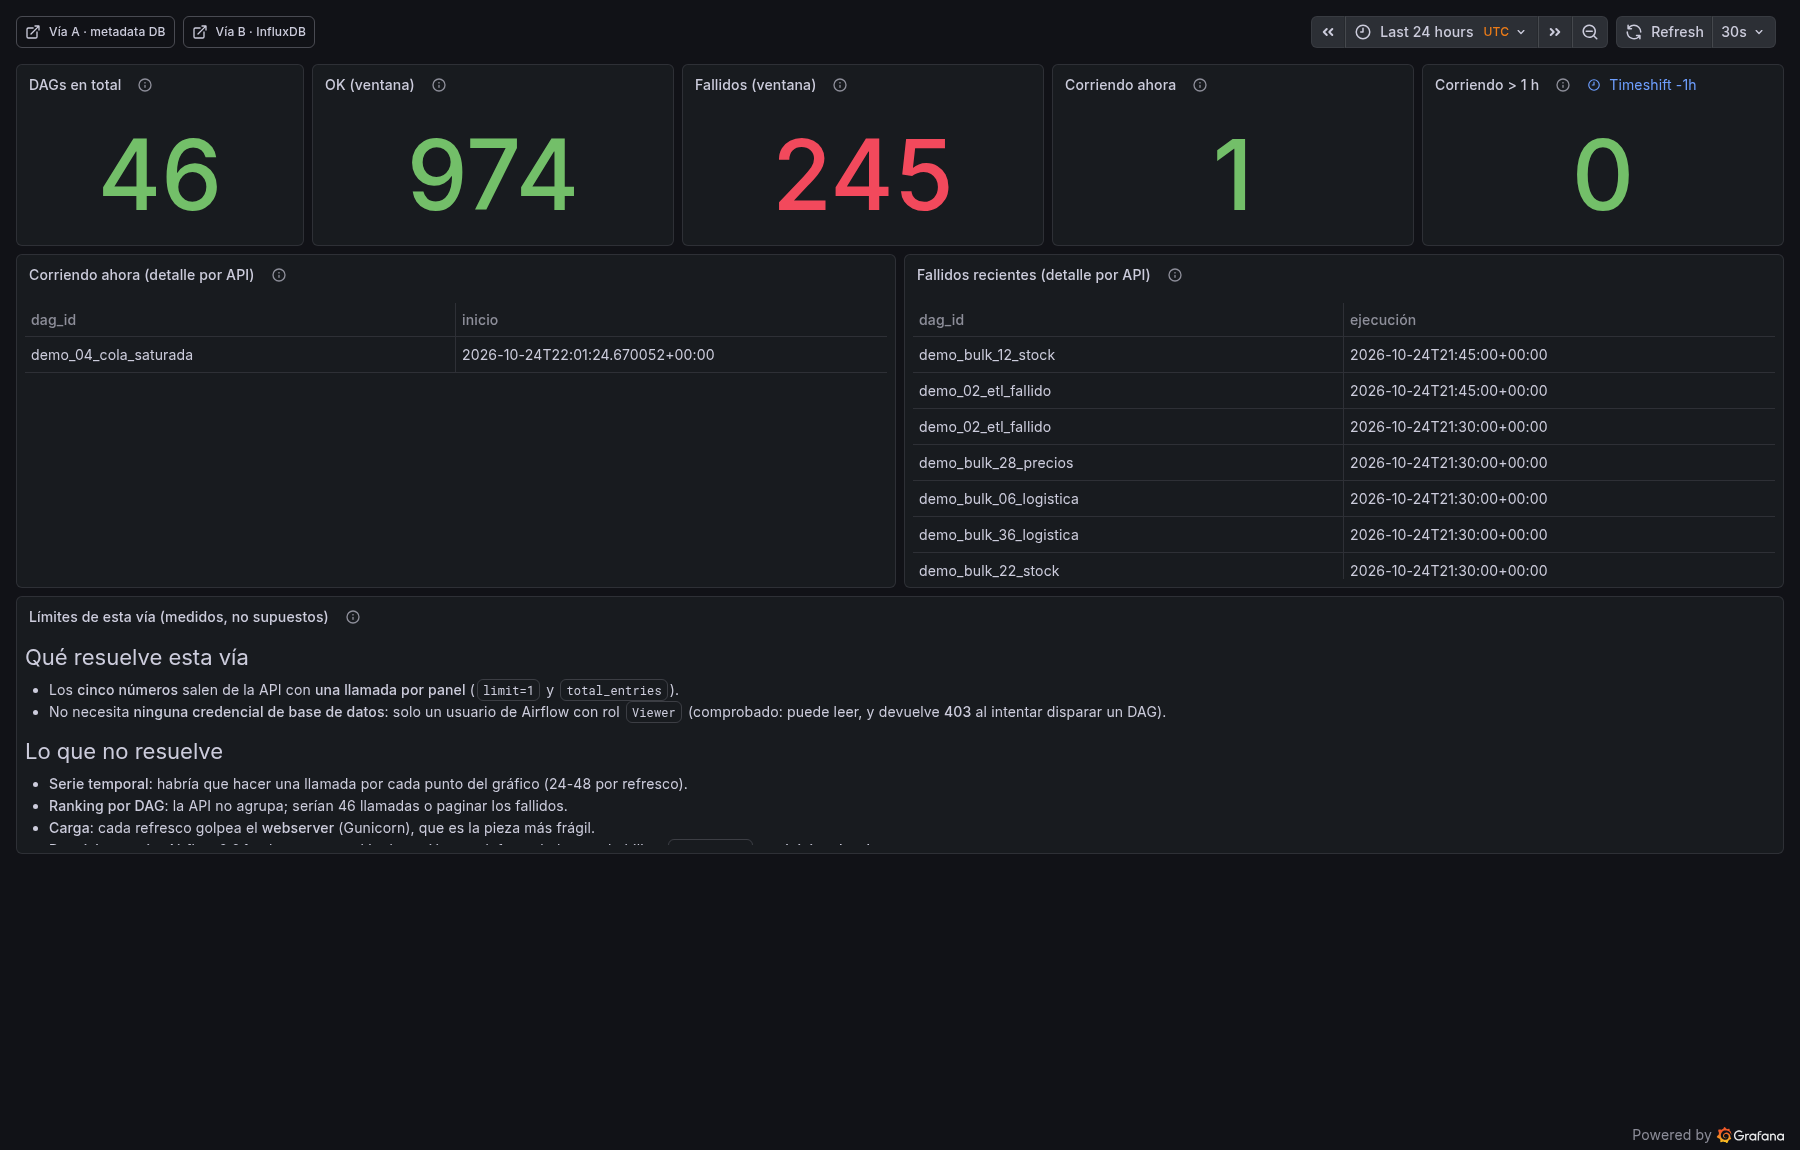
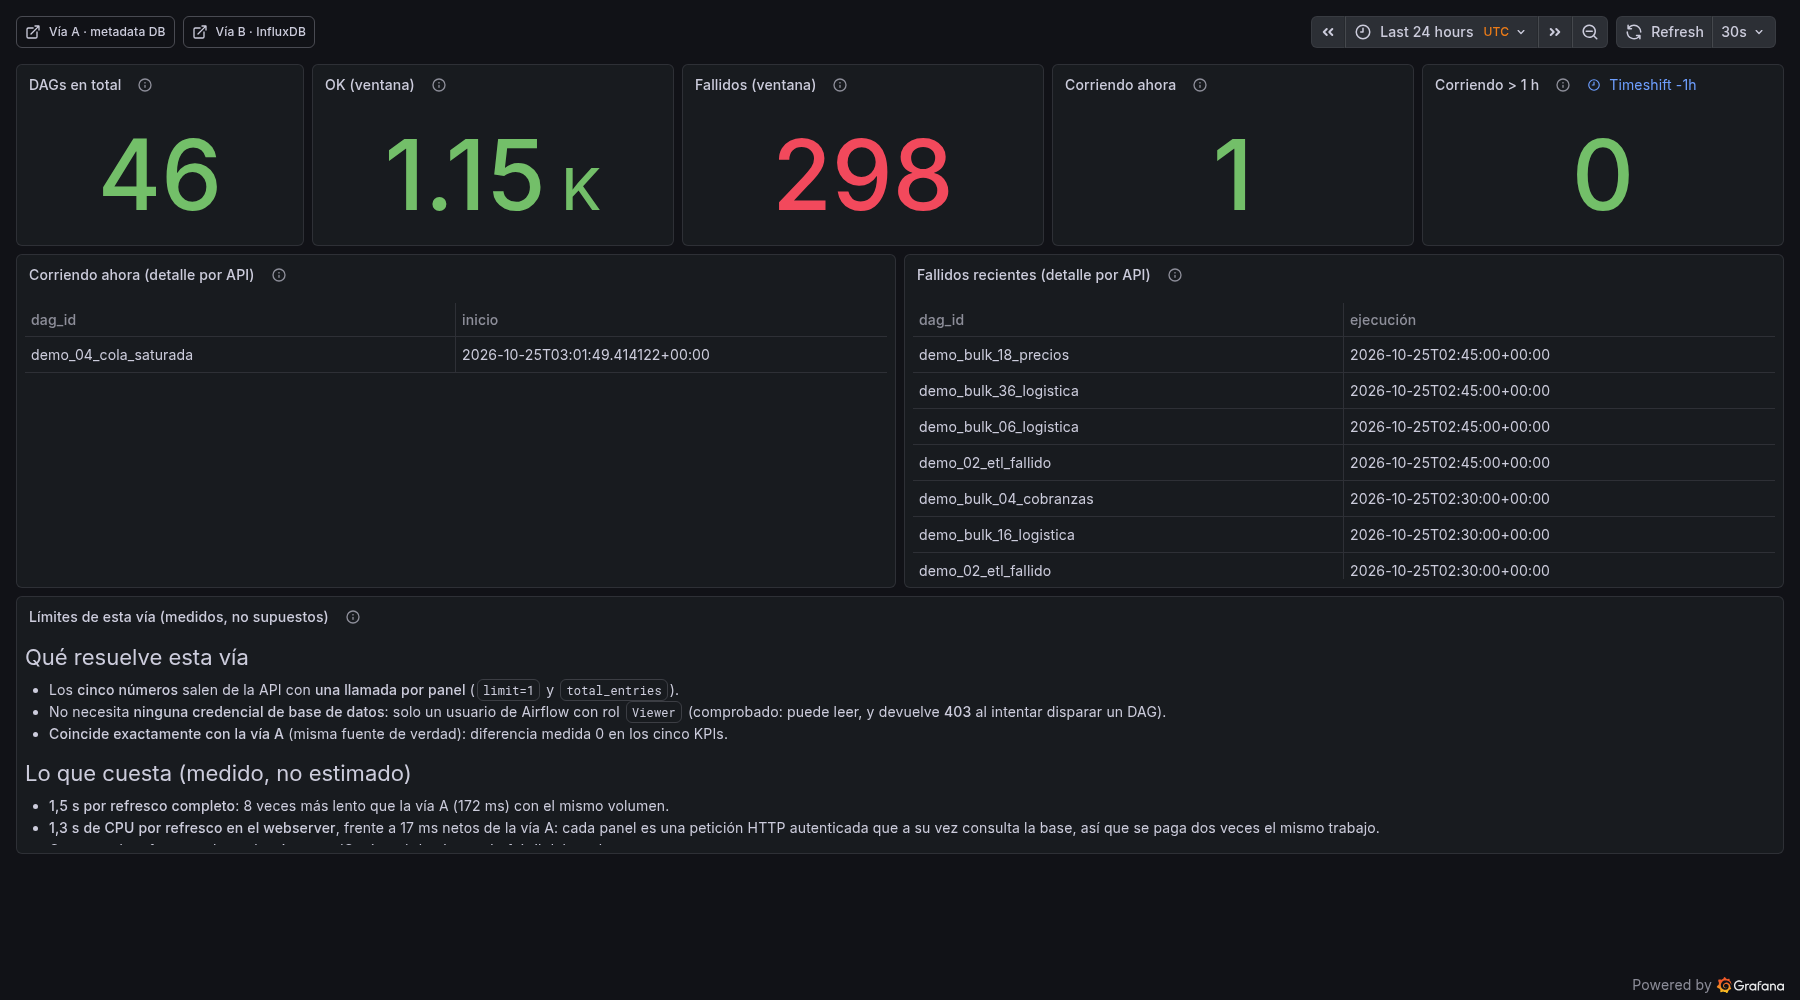
fix(via C): nota con la cifra de CPU corregida (17 ms netos, 1,3 s por refresco)

diff --git a/scripts/generate_dashboard_api.py b/scripts/generate_dashboard_api.py
@@ -165,8 +165,8 @@ dashboard["panels"][-1]["options"]["content"] = """
 ### Lo que cuesta (medido, no estimado)
 
 - **1,5 s por refresco completo**: 8 veces más lento que la vía A (172 ms) con el mismo volumen.
-- **~30 veces más CPU** en el componente que golpea (el webserver), porque cada panel es una
-  petición HTTP autenticada que a su vez consulta la base: se paga dos veces el mismo trabajo.
+- **1,3 s de CPU por refresco en el webserver**, frente a 17 ms netos de la vía A: cada panel es una
+  petición HTTP autenticada que a su vez consulta la base, así que se paga dos veces el mismo trabajo.
 - **Carga**: cada refresco golpea el **webserver** (Gunicorn), la pieza más frágil del stack.
 - **Requisito previo**: Airflow 2.8.1 solo acepta cookie de sesión por defecto; hubo que habilitar
   `basic_auth` y **reiniciar el webserver**.
